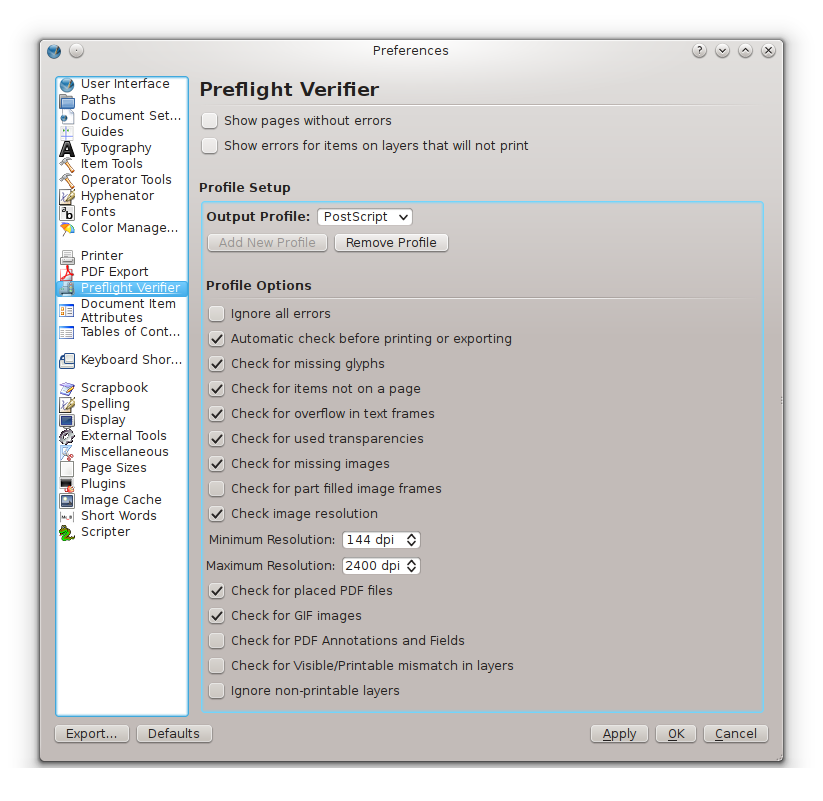
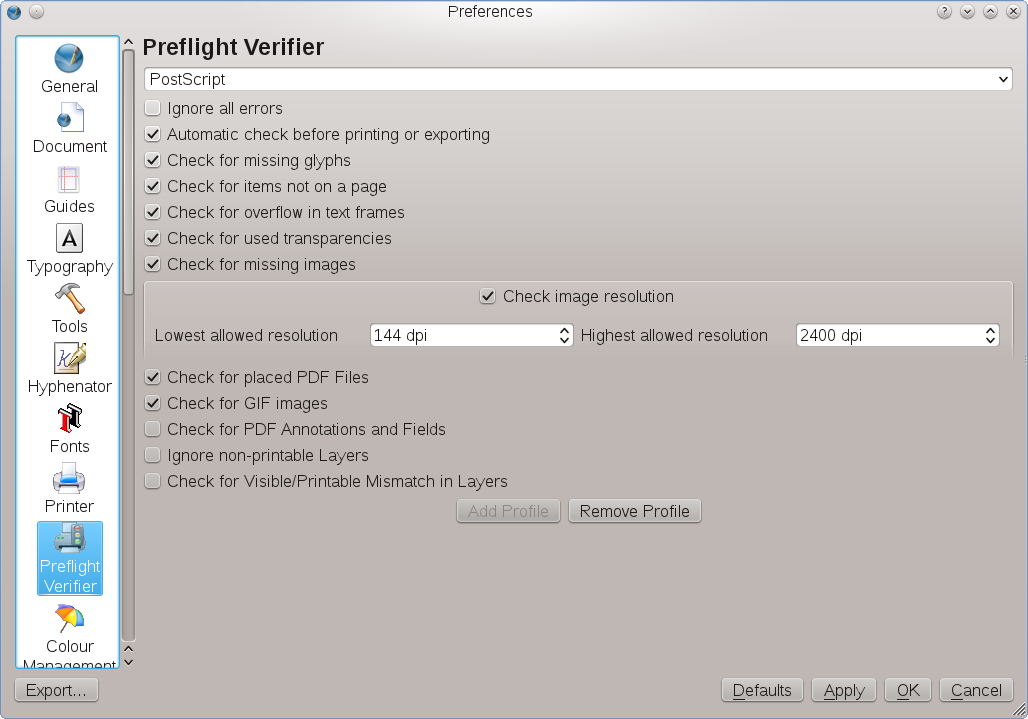
Update to trunk, removing resizeToMargins from branch

diff --git a/Scribus/doc/en/EditingShapes.html b/Scribus/doc/en/EditingShapes.html
@@ -9,7 +9,7 @@ Many of the objects that can be incorporated into a Scribus document are vector 
 <ul>
 <li>Shapes</li>
 <li>Polygons</li>
-<li>Frames - all types</li>
+<li>Frames &ndash; all types</li>
 <li>Contour lines</li>
 <li>Bézier curves</li>
 <li>Freehand lines</li>
@@ -23,7 +23,7 @@ As you may be aware or recall, when you consider the ability to convert from one
 
 <h3>Properties: Shape</h3>
 <table cellpadding=3><tr>
-<td>Here is our Shape tab from Properties, or at least the bigger part of it. We'll get to what's left (Fill Rules) farther down below in <b>Combining Polygons</b>. Let's look at the <b>Round Corners</b> item first, since it's a simple kind of edit, that does what it says. Since the spinbox is active, we know that the object this relates to is either a "regular" frame, like text, image, or render frame, or it's the rectangle shape (and not the 4-sided polygon). What the number in the spinbox refers to is the radius of the corner. You can keep going up on this until 2 adjacent rounding operations meet &ndash; if you start with a square, for example, you will end up with a circle. A rectangle looks more like a capsule with flattened sides and rounded ends. This could just as easily be a text or image frame.</td>
+<td>Here is our Shape tab from Properties, or at least the bigger part of it. We&rsquo;ll get to what&rsquo;s left (Fill Rules) farther down below in <b>Combining Polygons</b>. Let&rsquo;s look at the <b>Round Corners</b> item first, since it&rsquo;s a simple kind of edit, that does what it says. Since the spinbox is active, we know that the object this relates to is either a &ldquo;regular&rdquo; frame, like text, image, or render frame, or it&rsquo;s the rectangle shape (and not the 4-sided polygon). What the number in the spinbox refers to is the radius of the corner. You can keep going up on this until 2 adjacent rounding operations meet &ndash; if you start with a square, for example, you will end up with a circle. A rectangle looks more like a capsule with flattened sides and rounded ends. This could just as easily be a text or image frame.</td>
 <td rowspan=2><img src="images/prop_shape.png" ALT="Properties: Shape" ALIGN=right></td>
 </tr>
 <tr><td><img src="images/round_rectangle.png" ALT="Rounded rectangle" ALIGN=left></td></tr>
@@ -38,18 +38,18 @@ As you may be aware or recall, when you consider the ability to convert from one
 <table cellpadding="3"><tr>
 <td align=center width=200><img src="images/shape_edit.png"></td>
 <td>Now we get to the main event here, editing a shape/frame with its nodes and control points. When you click the <b>Edit</b> button on the Shape tab, the <b>Nodes</b> dialog to the right pops up and your shape/frame is transformed something like what you see on the left, with these blue and magenta circles.
-<p>Something to note at the outset is that generally where there is a sharp corner in a shape you only see the blue nodes, but where there is a smooth curve of some sort, these magenta control points are visible, sticking out like antennae from the node. Actually, all of these nodes have control points, but you don't see them when they are at the same position as the node.</td>
+<p>Something to note at the outset is that generally where there is a sharp corner in a shape you only see the blue nodes, but where there is a smooth curve of some sort, these magenta control points are visible, sticking out like antennae from the node. Actually, all of these nodes have control points, but you don&rsquo;t see them when they are at the same position as the node.</td>
 <td rowspan=3 valign=middle><img src="images/nodes_edit.png"></td>
 </tr>
 <tr><td></td><td><img src="images/node_edit_close.png" ALIGN=right></td>
 </tr>
-<tr><td colspan=2>As we begin to describe the usage of the shape edit dialog, let's use this numbering scheme to refer to the various buttons on the dialog to the far right. 
+<tr><td colspan=2>As we begin to describe the usage of the shape edit dialog, let&rsquo;s use this numbering scheme to refer to the various buttons on the dialog to the far right. 
 <p>When the dialog first comes up, button <b>1</b> will be selected, in which case you can move the blue nodes using the mouse. In addition to moving individual nodes, you can click-drag a line segment between nodes and move the segment along with its nodes. The segment retains its size, shape, and orientation &ndash; adjoining line segments do the adjusting. 
-<p>If you click button <b>5</b>, you can then move the magenta control points. Once you have clicked on a node or control point it turns red, and at this point, in addition to moving it with the mouse, the <b>X-Pos</b> and <b>Y-Pos</b> spinboxes become active and refer to this selected point. If <b>Absolute Coordinates</b> is <b><i>not</i></b> checked, then these numbers are relative to the upper left corner of the bounding box for the frame or shape (<i>see What is a Bounding Box? below</i>). Let's mention at this point that all of our editing steps here are Undo-able, i.e. can be undone with <b>Ctrl-Z</b> in case you change your mind.
+<p>If you click button <b>5</b>, you can then move the magenta control points. Once you have clicked on a node or control point it turns red, and at this point, in addition to moving it with the mouse, the <b>X-Pos</b> and <b>Y-Pos</b> spinboxes become active and refer to this selected point. If <b>Absolute Coordinates</b> is <b><i>not</i></b> checked, then these numbers are relative to the upper left corner of the bounding box for the frame or shape (<i>see What is a Bounding Box? below</i>). Let&rsquo;s mention at this point that all of our editing steps here are Undo-able, i.e. can be undone with <b>Ctrl-Z</b> in case you change your mind.
 <p>Button <b>2</b> allows for adding nodes, though they must be added somewhere along the line of the shape. Button <b>3</b> deletes the node you subsequently click on. The tooltip for button <b>4</b> says <i>Reset Control Points</i>, but it is not clear how to make this button active.
-<p>Button <b>6</b>, when clicked, allows for each individual control point to move independently. If button <b>7</b> is clicked, then the two control points at a node will arrange themselves on opposite side of a node and equidistant from it once either one is moved. This tends to produce a very smooth curved transition through the node. When a control point is selected, button <b>8</b> will be active and when clicked, resets the control point to its node's position.
+<p>Button <b>6</b>, when clicked, allows for each individual control point to move independently. If button <b>7</b> is clicked, then the two control points at a node will arrange themselves on opposite side of a node and equidistant from it once either one is moved. This tends to produce a very smooth curved transition through the node. When a control point is selected, button <b>8</b> will be active and when clicked, resets the control point to its node&rsquo;s position.
 <p>Button <b>9</b> will split the curve/shape when it is checked &ndash; click this button, then click anywhere along the line. It will appear that a node has been created, like using button <b>2</b>, but actually there are now 2 nodes at that position, so that if you move one, you will see the line is broken. Button <b>10</b> performs the opposite procedure, by joining a broken curve or shape (<i>and can also be used to make a closed figure out of a Bezier curve</i>).
-<p>Finishing out these first 3 rows, the unnumbered buttons next to the one we've labeled 10 flip the shape horizontally or vertically, respectively.</td>
+<p>Finishing out these first 3 rows, the unnumbered buttons next to the one we&rsquo;ve labeled 10 flip the shape horizontally or vertically, respectively.</td>
 </tr></table>
 <h3>Skewing</h3>
 <table cellpadding=3><tr>
@@ -64,13 +64,13 @@ Below the 4 rows of buttons we have spinboxes paired with buttons to the left. T
 <td><img src="images/boundingbox.png" ALIGN=left></td>
 <td><img src="images/boundingbox1.png" ALIGN=left></td>
 <td>A <i>Bounding Box</i> is the rectangular space that defines the boundaries of a shape and all of its descriptive components. Here we see this illustrated on the far left, noting that the bounding box is much larger than the actual shape. When we go to edit mode in the near left, we see that the box must include all of the control points for the shape.
-<p>There is a constraint on the <b>X-Pos</b> and <b>Y-Pos</b> so that they cannot be less than 0.0 when referring to the Bounding Box, so you will not be able to use the spinboxes to move nodes or control points lower than this value. Nonetheless, they can be moved with the mouse and the bounding box's left upper corner will then reposition. Using <b>Absolute Coordinates</b> is another workaround, since these values can be less than zero.
+<p>There is a constraint on the <b>X-Pos</b> and <b>Y-Pos</b> so that they cannot be less than 0.0 when referring to the Bounding Box, so you will not be able to use the spinboxes to move nodes or control points lower than this value. Nonetheless, they can be moved with the mouse and the bounding box&rsquo;s left upper corner will then reposition. Using <b>Absolute Coordinates</b> is another workaround, since these values can be less than zero.
 <p><b>Use Bounding Box</b> is one of the choices for Text Flow mode, as shown in the Shape tab graphic.
 </td>
 </tr></table>
 <br clear=all>
 <h3>Finally: What is a Contour Line?</h3>
-Or maybe we should say, what is it for? A contour line is itself never visible, except in this editing mode. Let's imagine you have a frame/shape which is not rectangular, and you wish to flow around it, but not necessarily follow the contours of the frame/shape. Even if it's a shape and has a bounding box, as we saw above sometimes the bounding box is not what we want either, therefore we can use a contour line to flow in our precisely desired way. While you are editing your contour line, you will see the text flow change to help you get the look you want.
+Or maybe we should say, what is it for? A contour line is itself never visible, except in this editing mode. Let&rsquo;s imagine you have a frame/shape which is not rectangular, and you wish to flow around it, but not necessarily follow the contours of the frame/shape. Even if it&rsquo;s a shape and has a bounding box, as we saw above sometimes the bounding box is not what we want either, therefore we can use a contour line to flow in our precisely desired way. While you are editing your contour line, you will see the text flow change to help you get the look you want.
 <table cellpadding=3><tr>
 <td><img src="images/frame_shape_flow.png" ALIGN=left></td>
 <td><img src="images/contourline_flow.png" ALIGN=left></td>
@@ -91,46 +91,5 @@ This top row shows our starting point, with a shape overlapping a polygon, the s
 </tr></table>
 In the left graphic here, we selected the shapes by holding down Shift and clicking the cross shape first, then combined, so even if you combine more than two shapes this way, the colors derive from the first one clicked. The middle shows that our combined polygon has retained the transparency. On the right, we see the results of <b>Item > Split Polygons</b>. It is not recommended to Undo combined polygons, since results are unpredictable and may cause a subsequent crash, depending on what you do next.
 <p>Something else to point out here is that in the bottom row, the leftmost combination uses an <b>Even-Odd Fill Rule</b> from the Shape tab, and the middle uses <b>Non Zero</b>. <i>You apply the fill rule after you combine polygons</i>.
-<h3>Path Operations</h3>
-These are some improved methods for combining shapes and polygons in various ways. They can only be applied to shapes and polygons, not text or image frames, though once again, conversion to text or images frames is still possible later.
-<table><tr><td><img src="images/pathops.png" alt="pathops.png" ALIGN=right></td>
-<td>Let's start with this situation, two standard shapes. First, select both shapes, and then select from the menu <br><b>Item > Path Tools > Path Operations...</b>
-<br>If you don't select both shapes, you will not be able to make this menu selection.</td>
-</tr><tr>
-<td><img src="images/pathops1.png" alt="pathops1.png" ALIGN=left></td>
-<td>What you get from this is the dialog to the left. 
-<br>Notice that a color has been assigned to the doughnut shape. This is merely for clarity to more easily see what will happen. If neither shape had a fill color, they would be assigned contrasting colors. <b>Swap Shapes</b> simply reverses the position of the two shapes, so that the first shape becomes the second.
-<p>Staying with this initial default choice of combining the shapes, we see to the right that we must choose which color the final shape will have &ndash; just as with <i>Combining Polygons</i>, the final shape can only have one set of colors for <b>Fill</b> and <b>Stroke</b>. As you can see, there is an option for choosing other colors for each, using the <b>Custom Colors</b> radio button.
-<p>What about the <b>Keep</b> button? If chosen, this will retain the elements of the shape. Perhaps best to illustrate the difference between the two with the examples below.
-<p>On the left below is when you do <i>not</i> check <b>Keep</b>, and to its right what happens when you <i>do</i> check <b>Keep</b>. It's also worth repeating that we stayed with using the First Shape for color choices.
-<table><tr><td><img src="images/pathops2.png" alt="pathops2.png"></td><td><img src="images/pathops3.png" alt="pathops3.png"></td>
-</tr></table>
-</td>
-</tr></table>
-<h4>Other Choices</h4>
-<table>
-<tr><td ALIGN=center><b>Subtraction</b></td><td ALIGN=center><b>Intersection</b></td><td ALIGN=center><b>Exclusion</b></td><td ALIGN=center><b>Break Apart</b></td></tr>
-<tr><td><img src="images/pathops4.png" alt="pathops4.png"></td><td><img src="images/pathops5.png" alt="pathops5.png"></td><td><img src="images/pathops6.png" alt="pathops6.png"></td><td><img src="images/pathops7.png" alt="pathops7.png"></td>
-</tr>
-</table>
-<p>
-<table>
-<tr><td></td><td ALIGN=center><b>Break Apart pulled apart</b></td></tr>
-<tr><td width=450px VALIGN=top><b>Break Apart</b> has some interesting features. You may recall that above I said that the final shape could only have one sort of fill color, so what happened here? In contrast to all other choices, with <i>Break Apart</i> I can specify a color for the <i>intersection</i> of the two shapes, so here I have chosen a custom color. What you then find is the meaning of the <i>Break Apart</i> name &ndash; these are really 3 separate shapes now, which I can move apart if I wish. After that, conversion of these to other kinds of frames is also possible, as seen here, and also note that the upper right shape behaves as one image frame.
-<p>A final note with <i>Path Operations</i> is that <b>Undo</b> will likely have some effect, but will not reverse whatever operation you carried out here.</td>
-<td COLSPAN=3><img src="images/pathops8.png"></td>
-</tr>
-</table>
-<h3>Create Path from Stroke</h3>
-If you have a <i>single</i> shape selected, this will be an option under <b>Item > Path Tools</b>. The name for this operation is admittedly a bit obtuse, so once again simply showing what it does is more worthwhile.
-<table width=70% cellpadding=10><tr>
-<td><img src="images/pathtools.png"></td>
-<td>To do this, let's create a rectangular shape, and increase its stroke width to 10 points.<br>Now select <br><b>Item > Path Tools > Create Path from Stroke</b>,<br>at which point, your reaction is likely that nothing has changed, except if you had a fill color, it will have disappeared. Now, change the fill color from <i>None</i> to some color, here red, and then zoom in on your rectangle.</td></tr>
-<tr><td><img src="images/pathtools1.png"></td>
-<td>In the upper left corner of the rectangle, seen at about 900% zoom, we begin to understand what happened. The space which was formerly the border (stroke) is now the fill, and there has been applied a stroke to the boundaries of this (I have increased the hairline stroke to 1 point so that it is clearer).
-<p>If we had started with a red color to the stroke, then the new stroke would also have been red.</td></tr>
-<tr><td><img src="images/pathtools2.png"></td>
-<td>To even better understand what has happened, let's convert this to an image frame and load an image. Now we can see that the space of the frame is limited to the original stroke space, so in a sense we have created a picture frame from this original rectangle.</td>
-</tr></table>
 </body>
 </html>

diff --git a/Scribus/doc/en/print2.html b/Scribus/doc/en/print2.html
@@ -16,16 +16,11 @@
 <p>In many cases, you might consider these to be simple warnings rather than errors in the usual sense. For example, in the dialog above, you may be already aware that Image13 is a GIF and has a low resolution, but you didn&rsquo;t have any choice about using it as is. Even so, this can serve as a reminder to carefully check that image in your PDF to see if it meets your needs. On the other hand, it&rsquo;s more likely that either you forgot to delete that empty Image12 or forgot to load an image, and you probably didn&rsquo;t want text to overflow in the Text9 frame. Certainly in a large document, and despite repetitive manual proofreading, these kinds of mistakes can easily happen.</p>
 
 <p>As almost everything else in Scribus, the Preflight Verifier can be <a href="settings1.html">configured</a> via the <i>Document Setup</i> or the <i>Preferences</i>:</p>
-<blockquote>
-<strong>Adding your own profile:</strong> <br />Simply use one of the existing profiles, such as <i>PostScript</i> you see below, and change the name. Once you do this, the <strong>Add Profile</strong> button will become active, so that you can save your profile after you change the settings as you wish. Don't worry, the original <i>PostScript</i> profile will still be there.
-</blockquote>
 <br>
 <table width="100%"><tr><td align="center"><img src="images/prefs_preflight.png"></td></tr></table>
 <p>The options in this panel are as follows:</p>
 <ul>
-<li><b>Show pages without errors:</b> When checked, lists all pages in the output, not just those with errors.</li>
-<li><b>Show errors for items on layers that will not print:</b> Self-explanatory.</li>
-<li><b>Output Profile (drop-down list):</b> Here you can select which print/export filetype&rsquo;s potential issues Scribus will check for by default.</li>
+<li><b>File Type (drop-down list):</b> Here you can select which print/export filetype&rsquo;s potential issues Scribus will check for by default.</li>
 <li><b>Ignore all errors:</b> From what you have read before, you can hopefully conclude that you would be ill-advised to check this option – an error discovered <i>after</i> a commercial print-run could prove to be costly. </li>
 <li><b>Automatic check before printing or exporting:</b> Having this option active means that the Preflight Verifier will not only be launched intentionally by you via the Menu Bar, but also automatically when you want to print or to export PostScript or PDF files and in case an error has been detected.</li>
 <li><b>Check for missing glyphs:</b> This option will let Scribus check for missing glyphs in a font. <i>Do not underestimate the importance of this option</i>, as a simple change of a font, e.g. via a style sheet or direct formatting, can result in text using glyphs that aren&rsquo;t available in the new font.</li>
@@ -33,13 +28,12 @@
 <li><b>Check of overflow in text frames:</b> As an avid reader of this Online Help you know for sure that working with Scribus is mostly <a href="WwFrames.html">frame-based</a>, and of course you are also aware of the <a href="WwText.html">necessity</a> to either reduce the font size or to enlarge a text frame or to link to a subsequent frame if the text doesn&rsquo;t fit into a particular frame. Similar to the &ldquo;missing glyphs&rdquo; issue, one of the likely issues that may ruin or devaluate your costly print is the change of a font, since the glyph widths change from font to font. In some cases, even using the same font on different platforms or even the same font on the same computer may result in a text overflow, as the update may have installed a new version of a font file with different font metrics.</li>
 <li><b>Check for used transparencies:</b> The PostScript file format doesn&rsquo;t support transparency, and neither does the PDF 1.3 specification, which is still supported by Scribus. Since PDF/X-3 is also based on PDF 1.3, you only need this option active for the three previously mentioned export/print destinations.</li>
 <li><b>Check for missing images:</b> Scribus doesn&rsquo;t store bitmap images in its own file format; it only creates links to files in one of the <a href="importhints.html">supported bitmap formats</a>. Since it can easily happen that users save an image under a different name, another file format or another location, the link to the image may become a &ldquo;dead link&rdquo;, i.e. the <a href="WwImages.html">image frame</a> will be empty, an issue that can be easily overlooked. This option lets Scribus detect such dead links.</li>
-<li><b>Check for part filled image frames:</b> If your image frame has a background color, or has a visible border, this may be important to check for.</li>
 <li><b>Check image resolution:</b> As an enlightened reader you already <a href="importhints.html">know</a> that the resolution of bitmap images can be critical to the success of a print run &ndash; if the resolution is too low, images will look awful when printed, and if the resolution is too high, the file size of an exported PostScript or PDF file may be too large to be handled by a commercial Raster Image Processor (RIP). This option will let Scribus check whether the resolution of an image is too high or low for a certain output destination. As you can see, you can change the limits in both directions, but keep in mind that the default values make sense in most cases.</li>
 <li><b>Check for placed PDF files:</b> Scribus can import PDF files into image frames via <a href="toolbox5.html">Ghostscript</a>. However, since Scribus lets Ghostscript &ldquo;rasterize&rdquo; (i.e.: create a bitmap image of) an imported PDF file, you may not like the result. Moreover, the quality of the file import depends on the Ghostscript version you have installed. Hence the option to let Scribus check for placed PDF files, which is especially useful if you exchange Scribus files between computers with different Ghostscript versions installed.</li>
 <li><b>Check for GIF images:</b> You already <a href="importhints.html">learned</a> that GIF files have no place in professional printing, but while you know this, you may still receive a ZIP-archive from others with a Scribus file and related images, some of which may very well be GIFs. So while the GIF threat need not be imminent, it doesn&rsquo;t hurt to leave the check mark where it is by default.</li>
 <li><b>Check for PDF Annotations and Fields:</b> PDF files that contain Annotations and Fields will be rejected by every commercial Raster Image Processor (RIP), so if you want to create a print-ready PDF file, you are advised to have this option active.</li>
-<li><b>Check for Visible/Printable Mismatch in Layers:</b> The possibility to make a layer invisible during the process of designing is very helpful, but forgetting to switch on visibility again may result in a PostScript or PDF file with missing elements. The reverse can also happen: You may create a document with multiple layers for different languages or different color patterns. This option will let Scribus investigate whether a visible layer is also &ldquo;printable&rdquo;, and in this context &ldquo;printable&rdquo; also means that the layer or its content will be exported.</li>
 <li><b>Ignore non-printable layers:</b> This option will help you to only export the layers that are marked as &ldquo;printable&rdquo;, which is especially helpful if you created a file with <a href="layers.html">language-specific layers</a>. </li>
+<li><b>Check for Visible/Printable Mismatch in Layers:</b> The possibility to make a layer invisible during the process of designing is very helpful, but forgetting to switch on visibility again may result in a PostScript or PDF file with missing elements. The reverse can also happen: You may create a document with multiple layers for different languages or different color patterns. This option will let Scribus investigate whether a visible layer is also &ldquo;printable&rdquo;, and in this context &ldquo;printable&rdquo; also means that the layer or its content will be exported.</li>
 </ul>
 <h3>The Print Preview</h3>
 <p>As mentioned in the previous section, one of the challenges of using an advanced DTP application like Scribus is handling &ldquo;high-level&rdquo; PostScript output. If you happen to be able to use a real PostScript printer (which won&rsquo;t be a device that&rsquo;s as small as your photo printer), you may start to appreciate some of Scribus&rsquo;s PostScript/printing features. Let&rsquo;s have a closer look at the Print Preview, which can be called via <i>File > Print Preview</i>.</p>

diff --git a/Scribus/scribus/canvasgesture_resize.cpp b/Scribus/scribus/canvasgesture_resize.cpp
@@ -183,12 +183,6 @@ void ResizeGesture::mouseReleaseEvent(QMouseEvent *m)
 			if (currItem->asImageFrame())
 				currItem->AdjustPictScale();
 		}
-		else if (m->button() == Qt::RightButton)
-		{
-			const FPoint mousePointDoc = m_canvas->globalToCanvas(m->globalPos());
-			Canvas::FrameHandle fh = m_canvas->frameHitTest(QPointF(mousePointDoc.x(),mousePointDoc.y()), currItem);
-			currItem->resizeToMargin(fh);
-		}
 		m_view->resetMousePressed();
 		// necessary since mousebutton is still recorded pressed, and otherwise checkchanges() will do nothing
 		// we must check changes on whole selection otherwise resize operation won't undo correctly on groups

diff --git a/Scribus/scribus/ui/copypagetomasterpagedialog.cpp b/Scribus/scribus/ui/copypagetomasterpagedialog.cpp
@@ -33,7 +33,6 @@ CopyPageToMasterPageDialog::CopyPageToMasterPageDialog(int existingMasterNamesCo
 	{
 		foreach (QString untranslatedPageName, pageLocations)
 			pagePositionComboBox->addItem(CommonStrings::translatePageSetLocString(untranslatedPageName));
-		pagePositionComboBox->addItems(pageLocations);
 		pagePositionComboBox->setCurrentIndex(currentLocation);
 	}
 }

diff --git a/Scribus/scribus/plugins/saveastemplateplugin/satemplate.h b/Scribus/scribus/plugins/saveastemplateplugin/satemplate.h
@@ -37,6 +37,7 @@ extern "C" PLUGIN_API void saveastemplateplugin_freePlugin(ScPlugin* plugin);
 
 class SATDialog;
 
+
 class MenuSAT : public QObject
 {
 	Q_OBJECT
